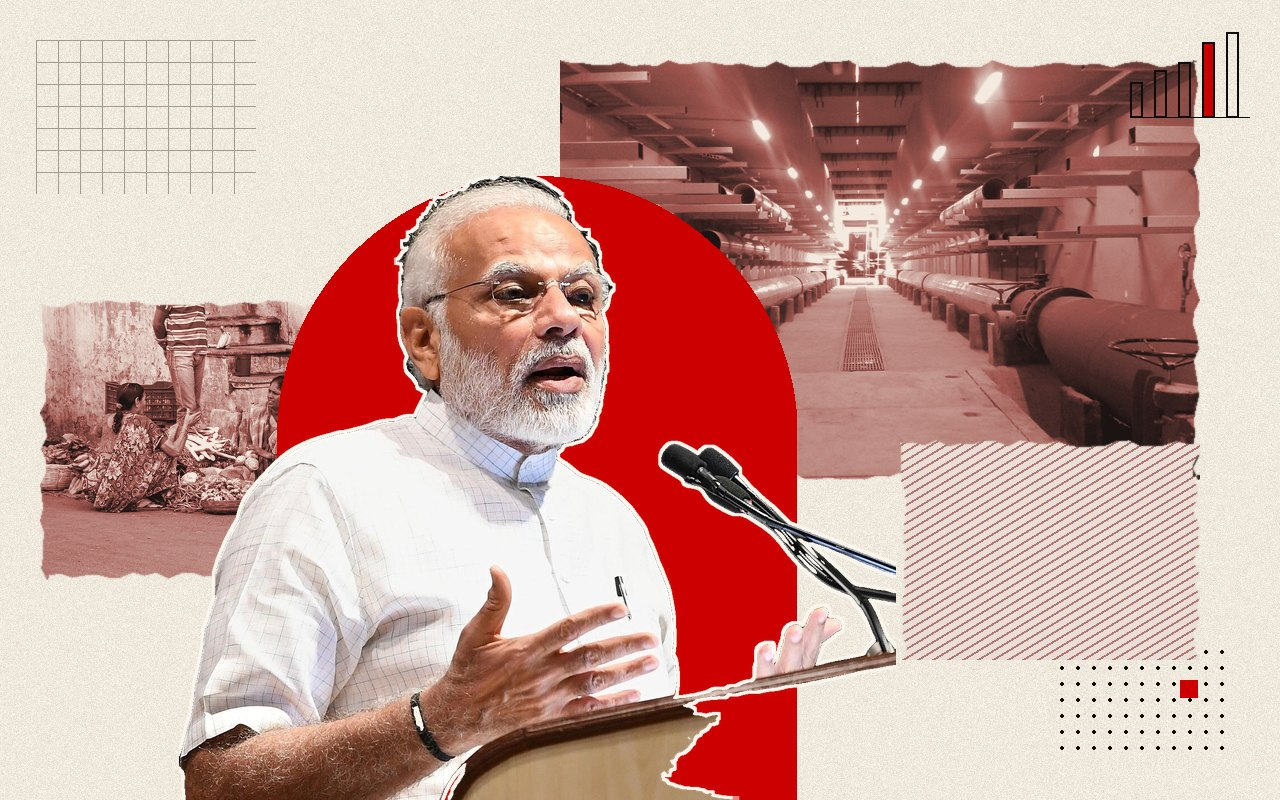
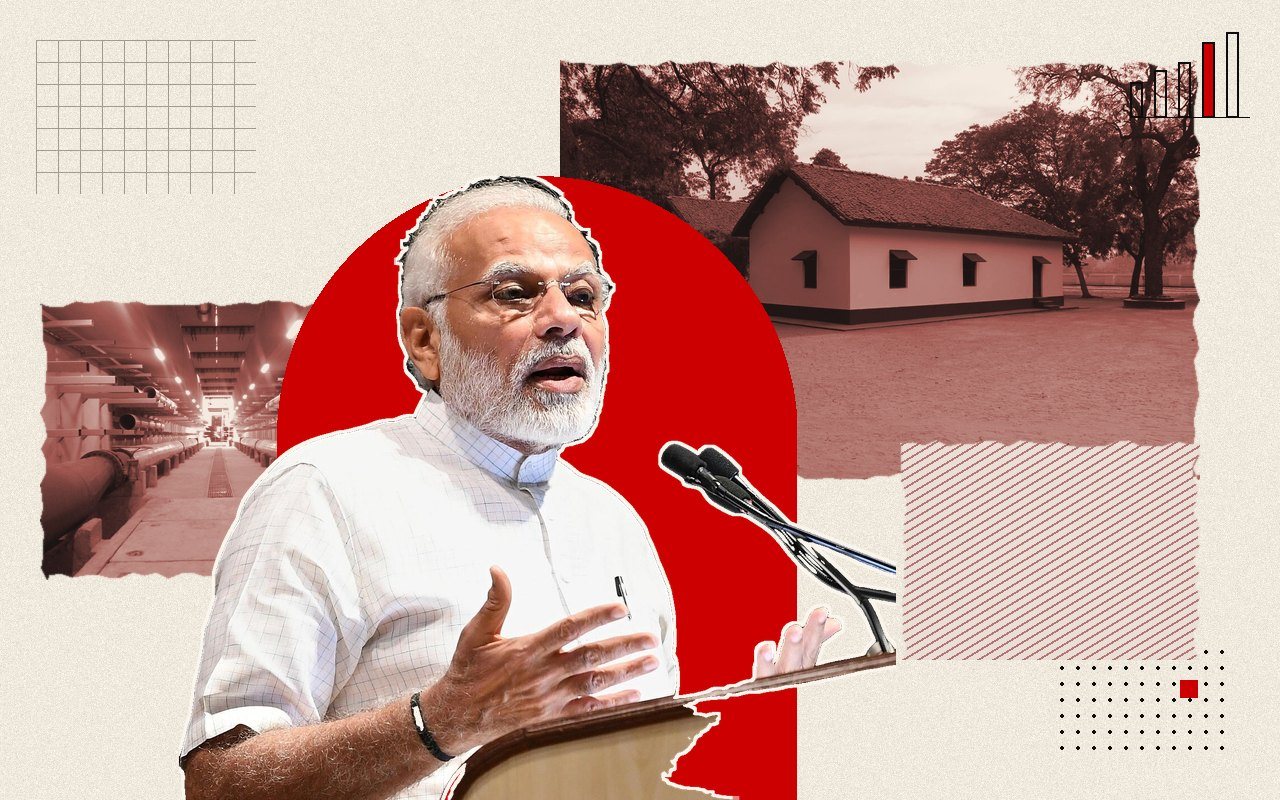
Hourly 16:00 IST (second publish): Modi lead collage fixed
- Modi Gujarat collage had a tile from the Karnataka leg (the related list carried the Karnataka visit stories); related list narrowed to Gujarat stories, a Sabarmati Ashram Commons photo added as the in-story picture (finder h1416b), collage rebuilt: Modi over Sabarmati Ashram and GIFT City.
- Headlines rotated for the 17:00 hour (refresh_home, same picks and drops).
- Breach: startHere explainer over 20 hours old (long-form runs).

Claude-Session: https://claude.ai/code/session_01C3zerT6eBismztD2QjcYib

Changed region(s): [[0.4375, 0.0625, 0.9375, 0.5938], [0.0312, 0.375, 0.25, 0.7188]]

diff --git a/content/hi/news/modi-gujarat-lok-bhavan-dholera-sabarmati-cwg-review.md b/content/hi/news/modi-gujarat-lok-bhavan-dholera-sabarmati-cwg-review.md
@@ -30,7 +30,7 @@ infographic:
     - {icon: currency-inr, value: "₹1,200 करोड़", label: "साबरमती आश्रम पुनर्विकास की अनुमानित लागत, रिपोर्टों के अनुसार"}
     - {icon: currency-inr, value: "₹301 करोड़", label: "2030 खेलों की तैयारी के लिए गुजरात का प्रावधान, रिपोर्टों के अनुसार"}
   source: "13 और 14 नवंबर 2026 की रिपोर्टें"
-related: [modi-karnataka-gujarat-visit-november-13-14-15600-crore-projects-preview, modi-karnataka-gujarat-visit-today-bengaluru-mysuru-lead, amit-shah-ahmedabad-gujarat-security-review-drug-free-india-2029, harsh-sanghavi-seoul-korean-firms-gujarat-investment]
+related: [amit-shah-ahmedabad-gujarat-security-review-drug-free-india-2029, harsh-sanghavi-seoul-korean-firms-gujarat-investment]
 seo:
   title: "मोदी ने गुजरात में धोलेरा, साबरमती आश्रम, 2030 खेलों को परखा"
   description: "लोक भवन में रात बिताकर 14 नवंबर को पीएम मोदी ने गुजरात के सीएम भूपेंद्र पटेल और डिप्टी सीएम हर्ष संघवी से मिलकर धोलेरा, साबरमती आश्रम और 2030 खेलों की समीक्षा की।"

diff --git a/content/en/news/modi-gujarat-lok-bhavan-dholera-sabarmati-cwg-review.md b/content/en/news/modi-gujarat-lok-bhavan-dholera-sabarmati-cwg-review.md
@@ -29,7 +29,7 @@ infographic:
     - {icon: currency-inr, value: "₹1,200 cr", label: "estimated cost of the Sabarmati Ashram redevelopment, as reported"}
     - {icon: currency-inr, value: "₹301 cr", label: "set aside by Gujarat for the 2030 Games, as reported"}
   source: "Reports of November 13 and 14, 2026"
-related: [modi-karnataka-gujarat-visit-november-13-14-15600-crore-projects-preview, modi-karnataka-gujarat-visit-today-bengaluru-mysuru-lead, amit-shah-ahmedabad-gujarat-security-review-drug-free-india-2029, harsh-sanghavi-seoul-korean-firms-gujarat-investment]
+related: [amit-shah-ahmedabad-gujarat-security-review-drug-free-india-2029, harsh-sanghavi-seoul-korean-firms-gujarat-investment]
 seo:
   title: "Modi reviews Dholera, Sabarmati Ashram, 2030 Games in Gujarat"
   description: "After a night at Lok Bhavan, PM Modi met Gujarat CM Bhupendra Patel and Deputy CM Harsh Sanghavi on November 14 and reviewed Dholera, Sabarmati Ashram and the 2030 Games."
